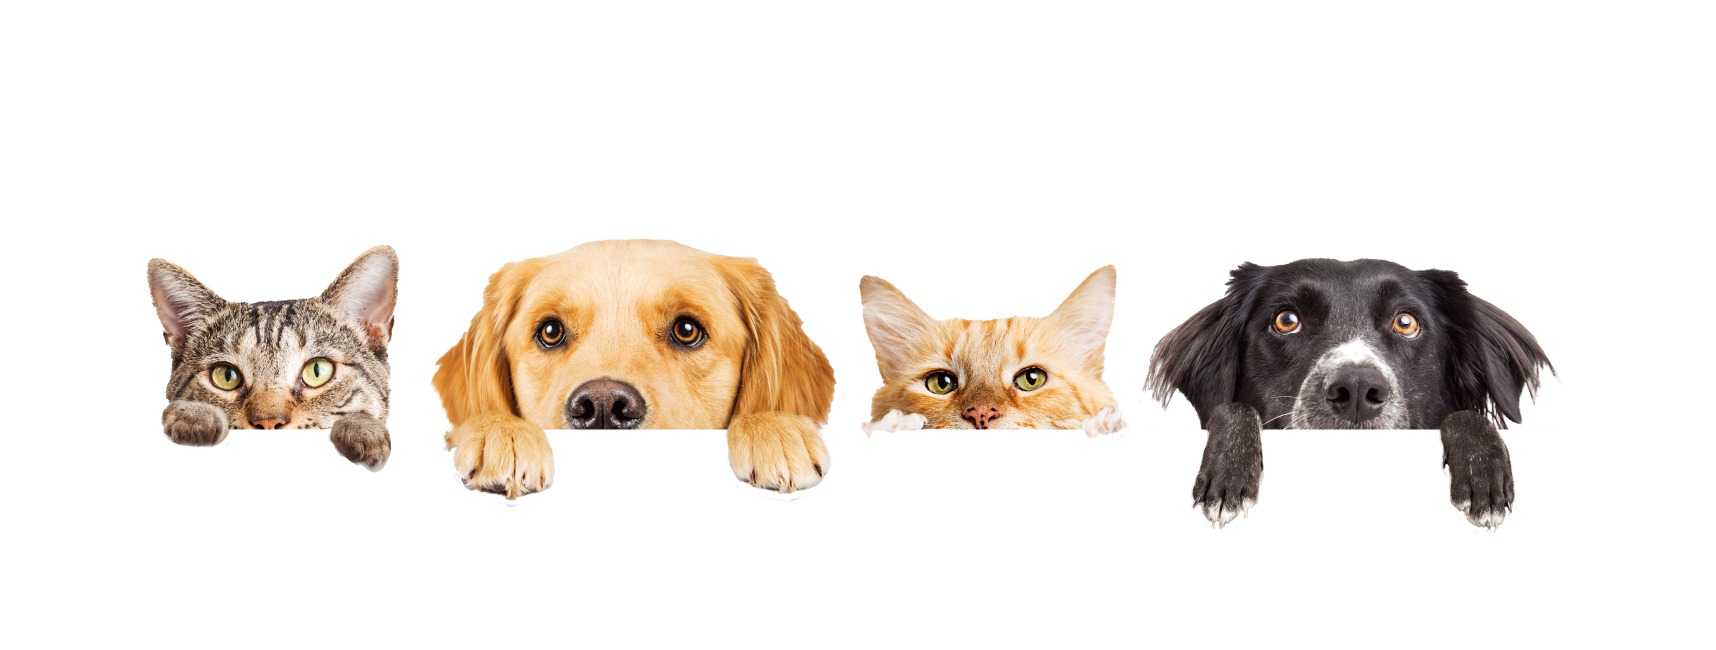
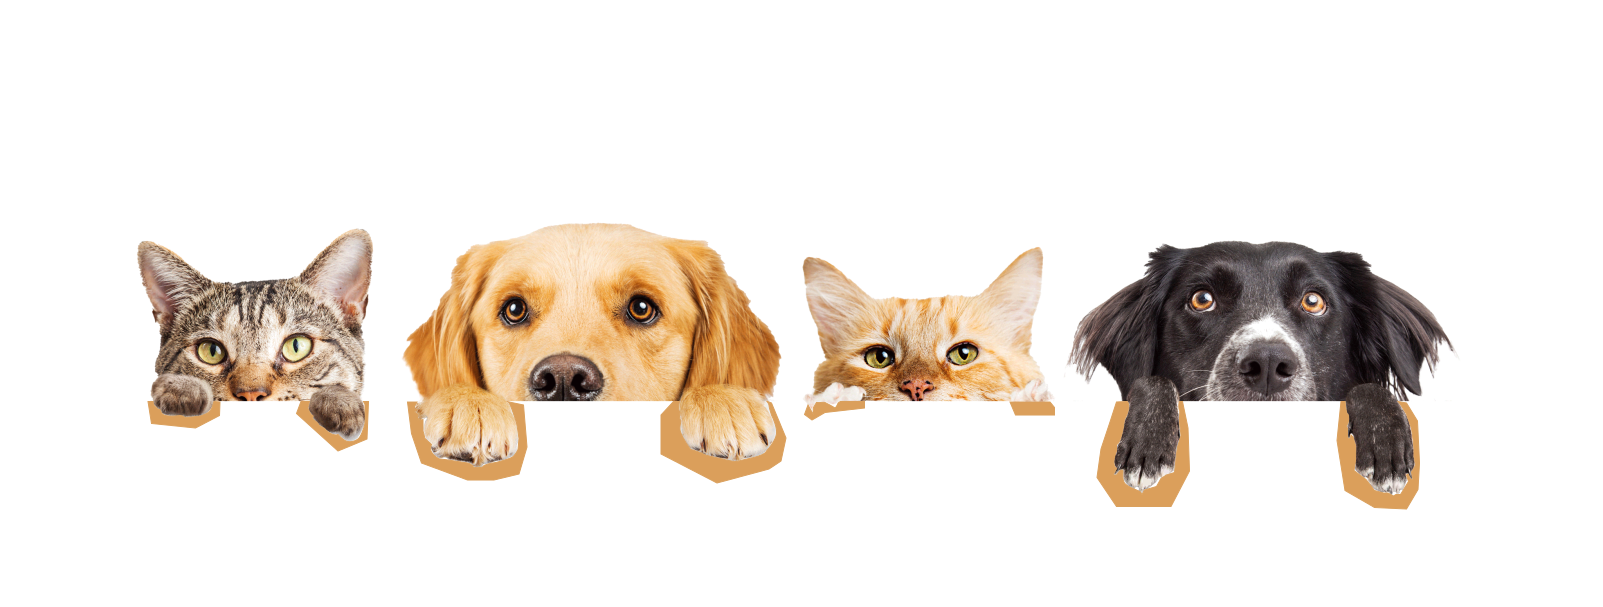
adopt me small fixes

diff --git a/src/components/layout/homePage/AdoptMeSection.js b/src/components/layout/homePage/AdoptMeSection.js
@@ -13,10 +13,9 @@ const AdoptMeSection = (props) => {
                     <img src={require('../../../images/pets-peeking.png')} alt="pet with owner" className="main__image" />
                 </div>
                 <div className="main__text">
-                    <input type="checkbox" id="title" />
-                    <label for="title">מאות בעלי חיים מחכים לכם לאימוץ בסניפי עמותת תנו לחיות לחיות ברחבי הארץ.</label>
+                    <p className="adoptMe-section__title">מאות בעלי חיים מחכים לכם לאימוץ בסניפי עמותת תנו לחיות לחיות ברחבי הארץ.</p>
 
-                    <div className="content">
+                    <div className="adoptMe-section__content">
                         <p>בחרו את בעל החיים הרצוי, ובעזרת סינונים השונים תוכלו למקד את החיפוש</p>
                         <p>ולמצוא את החיה המתאימה לכם לאימוץ.</p>
                     </div>

diff --git a/src/sass/pages/_home.scss b/src/sass/pages/_home.scss
@@ -34,7 +34,7 @@
       font-weight: bold;
       font-size: 4vw;
       line-height: 5vw;
-      color: $color-primary;
+      color: #fa8e2b;
       @include respond(phone) {
         display: none;
       }
@@ -407,12 +407,30 @@ input:checked + label + .content {
 .adoptMe-section {
   position: relative;
   margin-top: 12vw;
-  background-image: url("../../images/contact-us-background.svg");
+  background-image: url("../../images/adopt-background.svg");
   background-position-y: -2vw;
 
   &__topImage {
     position: absolute;
     top: -17.5vw;
+  }
+
+  &__title {
+    font-family: Rubik;
+    font-style: normal;
+    font-weight: 500;
+    font-size: 3rem;
+    line-height: 53px;
+    color: $color-footer-dark;
+  }
+
+  &__content {
+    font-family: Rubik;
+    font-style: normal;
+    font-weight: 500;
+    font-size: 3rem;
+    line-height: 53px;
+    color: $color-footer-dark;
   }
   &__work-with-us {
   }
